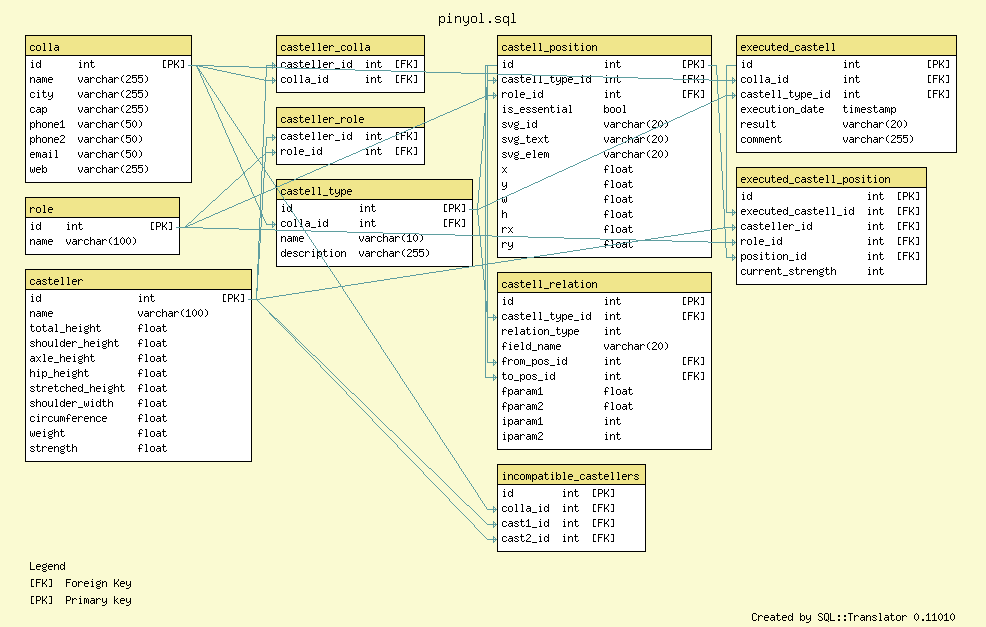
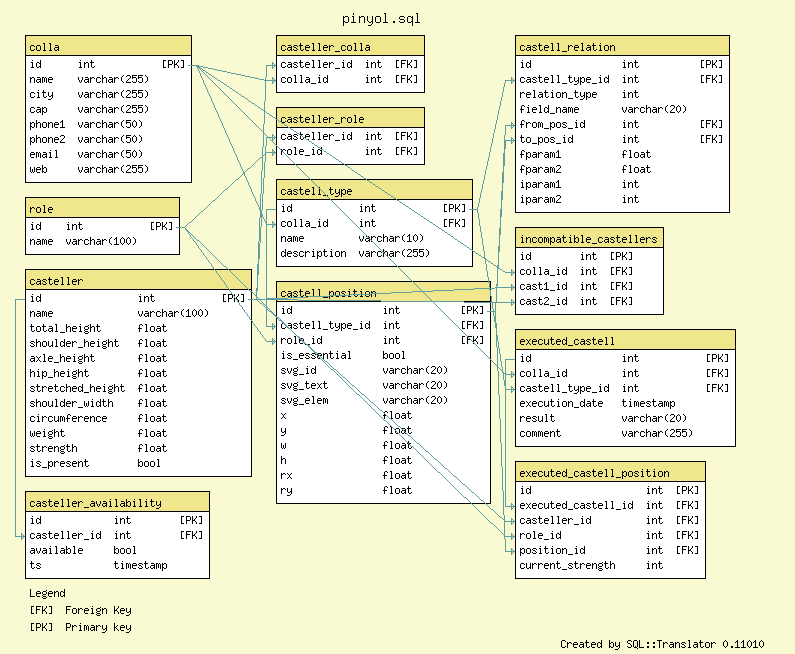
added availability table

diff --git a/db_interaction.py b/db_interaction.py
@@ -10,7 +10,8 @@ def get_positions(db, castell_type_id, position_data):
 
 def get_castellers(db, colla_id, pos_id):
     """
-    returns all castellers of the given colla that can be employed at the given position pos
+    returns all castellers of the given colla that are present
+    and can be employed at the given position pos
     """
     c = db.cursor()
     c.execute("""
@@ -19,7 +20,7 @@ from casteller
 left join casteller_role on casteller_role.casteller_id = casteller.id
 left join castell_position on casteller_role.role_id = castell_position.role_id 
 left join casteller_colla on casteller.id = casteller_colla.casteller_id 
-where castell_position.id = %s and casteller_colla.colla_id = %s
+where is_present=true and castell_position.id = %s and casteller_colla.colla_id = %s
 """, (pos_id,colla_id,))
     res = c.fetchall()
     ans = []

diff --git a/run_unit_tests.py b/run_unit_tests.py
@@ -12,7 +12,10 @@ class IPTest(unittest.TestCase):
         participation = dict([(9, 0), (17, 5)])
         castellers_in_position = dict()
         position_data = dict()
-        self.assertEqual(build_ip.make_lp_file(build_ip.ip_ineqs(castellers_in_position, position_data, participation)), f.read())
+        obj_val = dict()
+        ineqs = []
+        build_ip.ip_ineqs(castellers_in_position, position_data, obj_val, ineqs, participation)
+        self.assertEqual(build_ip.make_lp_file(obj_val, ineqs), f.read())
 
     def test_solve_ip(self):
         f = open('tests/test.solutions', 'r')
